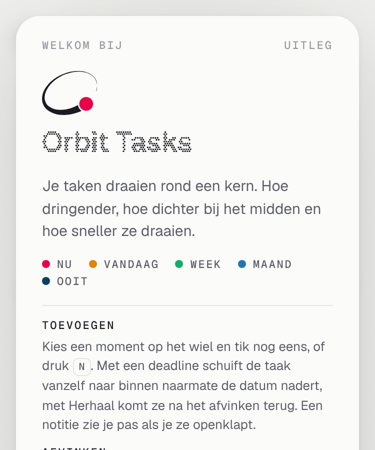
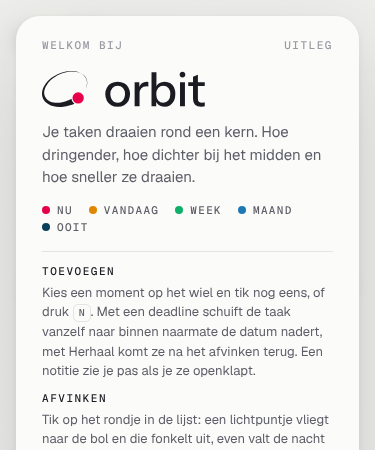
Uitleg toont het merk met woordmerk als titel, puntjestitel weggehaald
Claude-Session: https://claude.ai/code/session_01DKza2nncPbWGfFsHg8Vg2p

diff --git a/src/core/mark.js b/src/core/mark.js
@@ -1,6 +1,7 @@
 // Beeldmerk en woordmerk van Orbit (merk v1, 02/11/2026), uit brand/tools/export_app.py. Niet met de hand aanpassen.
-// SYMBOL: master (vanaf 48 px), SYMBOL_SMALL: kleine tekening (16 tot 47 px), LOCKUP_SMALL: kleine tekening met woordmerk.
-// oc: optisch midden (om het merk in een icoon te centreren). Elk: w, h (vak), tail (pad van de baan met staart), head [cx, cy, r] (de kop, in --core); LOCKUP_SMALL ook word (pad) en base (basislijn).
+// SYMBOL: master (vanaf 48 px), SYMBOL_SMALL: kleine tekening (16 tot 47 px), LOCKUP en LOCKUP_SMALL: master of kleine tekening met woordmerk.
+// oc: optisch midden (om het merk in een icoon te centreren). Elk: w, h (vak), tail (pad van de baan met staart), head [cx, cy, r] (de kop, in --core); LOCKUP en LOCKUP_SMALL ook word (pad) en base (basislijn).
 export const SYMBOL = {"w":125.67,"h":100,"tail":"M123.4 45.8 122.8 45.6C125 39.3 125.6 33.1 124.5 27.4C123.4 22 120.8 17.1 116.8 13C112.6 8.9 107 5.7 100.4 3.7C94 1.9 86.6 1.1 78.9 1.6C70.9 2.1 62.6 4 54.5 6.9C46.7 9.8 39.2 13.8 32.6 18.5C25.8 23.4 19.9 29.1 15.5 35.1C11.1 41.1 8.1 47.3 6.8 53.3C5.5 59 5.8 64.4 7.4 69C9.1 73.9 12.2 77.9 16.5 81.1C20.7 84.1 26 86.3 32.2 87.4C38.6 88.6 45.8 88.6 53.4 87.4C60.6 86.2 68.1 83.9 75.2 80.6C77.4 79.6 79.7 78.4 81.8 77.2C82.5 82.8 85.7 87.6 90.2 90.6C87.1 92 83.9 93.3 80.7 94.4C72.1 97.4 63.3 99.2 54.7 99.8C45.9 100.4 37.3 99.6 29.8 97.5C22.5 95.4 16.1 92 11.1 87.6C6 83 2.5 77.2 1 70.9C-0.5 64.9 -0.3 58.4 1.6 51.9C3.6 45.3 7.3 38.7 12.3 32.6C17.3 26.4 23.7 20.8 30.9 16C37.9 11.4 45.7 7.6 53.8 4.9C62.1 2 70.7 0.4 78.8 0.1C86.7 -0.3 94.2 0.6 100.7 2.7C107.4 4.8 113.1 8.1 117.3 12.5C121.4 16.6 124.1 21.7 125.1 27.3C126.3 33.1 125.6 39.5 123.4 45.8Z","head":[100.44,74.79,15.67],"oc":[62.65,59.97]};
 export const SYMBOL_SMALL = {"w":121.95,"h":100,"tail":"M113.3 46.2C114.6 41.1 114.5 36 113.2 31.5C111.9 27.1 109.4 23.2 105.9 19.9C102.3 16.4 97.4 13.7 91.8 11.9C86.3 10.2 80 9.4 73.5 9.6C66.8 9.8 59.7 11.1 52.9 13.5C46.4 15.7 40.2 18.9 34.8 22.7C29.2 26.6 24.4 31.3 20.9 36.2C17.4 41 15.1 46.1 14.2 50.9C13.3 55.5 13.6 59.8 14.8 63.6C16.1 67.5 18.5 71 21.9 73.9C25.2 76.7 29.4 78.9 34.5 80.4C39.7 81.9 45.8 82.6 52.1 82.2C58.3 81.8 64.7 80.5 70.8 78.3C77.1 76 83.1 72.8 88.2 69L99.9 85.8C92.7 90.4 84.9 94 76.7 96.4C68.8 98.8 60.6 100 52.6 100C44.4 100 36.4 98.7 29.3 96.1C22.4 93.6 16.2 89.9 11.4 85.1C6.4 80.2 2.8 74.1 1.1 67.5C-0.5 61.1 -0.3 54.4 1.4 47.9C3.1 41.1 6.5 34.7 11.2 28.8C15.9 22.9 21.8 17.7 28.5 13.4C35 9.2 42.3 5.8 49.8 3.6C57.5 1.2 65.6 -0 73.4 5.7e-05C80.9 0 88.1 1.2 94.6 3.4C101.3 5.8 107.2 9.4 111.7 13.9C116.1 18.3 119.2 23.6 120.8 29.4C122.4 35.3 122.3 41.7 120.7 48C120.4 49.7 118.8 51 117 51C114.9 51 113.2 49.3 113.2 47.2C113.2 46.9 113.2 46.5 113.3 46.2Z","head":[94.05,77.39,17.46],"oc":[60.2,53.43]};
+export const LOCKUP = {"w":344.25,"h":76.13,"tail":"M93.9 34.9 93.5 34.7C95.1 29.9 95.6 25.2 94.8 20.9C94 16.7 91.9 13 88.9 9.9C85.7 6.8 81.4 4.3 76.4 2.9C71.5 1.4 65.9 0.9 60.1 1.2C54 1.6 47.6 3 41.5 5.3C35.6 7.5 29.9 10.5 24.8 14.1C19.6 17.8 15.2 22.1 11.8 26.7C8.4 31.3 6.2 36 5.2 40.6C4.2 44.9 4.4 49 5.7 52.6C6.9 56.2 9.3 59.3 12.6 61.7C15.7 64 19.8 65.7 24.5 66.6C29.4 67.4 34.9 67.4 40.6 66.5C46.2 65.6 51.9 63.9 57.2 61.4C59 60.6 60.6 59.7 62.3 58.8C62.8 63 65.2 66.7 68.7 69C66.3 70 63.9 71 61.4 71.9C54.9 74.2 48.2 75.6 41.7 76C34.9 76.4 28.4 75.8 22.7 74.2C17.1 72.6 12.2 70.1 8.5 66.7C4.6 63.2 1.9 58.8 0.7 54C-0.4 49.4 -0.2 44.4 1.2 39.5C2.7 34.5 5.5 29.5 9.3 24.8C13.2 20.1 18 15.8 23.5 12.2C28.9 8.7 34.8 5.8 40.9 3.7C47.3 1.6 53.8 0.3 60 0C66 -0.2 71.7 0.5 76.6 2C81.8 3.6 86.1 6.2 89.3 9.5C92.4 12.7 94.5 16.5 95.3 20.8C96.1 25.2 95.6 30 93.9 34.9Z","head":[76.47,56.94,11.93],"word":"M160 75.6Q152.2 75.6 146.3 72.2Q140.4 68.7 137.1 62.7Q133.8 56.6 133.8 48.9Q133.8 41.1 137.2 35.2Q140.5 29.3 146.4 26Q152.2 22.6 160 22.6Q167.9 22.6 173.8 26Q179.7 29.3 183 35.2Q186.2 41.1 186.2 48.9Q186.2 56.6 183 62.7Q179.7 68.7 173.8 72.2Q167.9 75.6 160 75.6ZM160 67.1Q164.7 67.1 168.2 64.8Q171.6 62.5 173.6 58.4Q175.6 54.3 175.6 48.8Q175.6 40.6 171.3 35.9Q166.9 31.1 160 31.1Q153.2 31.1 148.9 35.9Q144.5 40.7 144.5 48.8Q144.5 54.3 146.5 58.4Q148.4 62.5 152 64.8Q155.5 67.1 160 67.1ZM195.9 74.6V23.6H205.8V36.3H206.3V74.6H195.9ZM206.3 48 205 35.9Q206.8 29.4 211.2 26Q215.6 22.6 221.7 22.6Q224 22.6 224.9 23V32.8Q224.4 32.6 223.5 32.6Q222.6 32.5 221.3 32.5Q213.8 32.5 210.1 36.4Q206.3 40.3 206.3 48ZM258.8 75.5Q251.6 75.5 246.8 72.1Q242 68.6 240.5 62.4L241.5 62.2V74.6H231.6V2.6H242V35.3L240.9 35Q242.6 29.2 247.6 25.9Q252.5 22.6 259.5 22.6Q266.4 22.6 271.5 25.9Q276.5 29.2 279.3 35.1Q282 41 282 48.9Q282 56.9 279.1 62.9Q276.2 68.9 271 72.2Q265.8 75.5 258.8 75.5ZM256.6 66.9Q263.4 66.9 267.4 62.1Q271.4 57.3 271.4 48.9Q271.4 40.6 267.4 36Q263.4 31.3 256.5 31.3Q249.7 31.3 245.7 36.1Q241.6 40.8 241.6 49.2Q241.6 57.4 245.7 62.2Q249.7 66.9 256.6 66.9ZM291.9 74.6V23.6H302.3V74.6H291.9ZM336.6 75.6Q327.7 75.6 323.6 71.5Q319.4 67.3 319.4 59.2V11.9L329.7 8V59.3Q329.7 63.3 331.8 65.2Q333.9 67.1 338.6 67.1Q340.4 67.1 341.8 66.8Q343.2 66.5 344.2 66.1V74.5Q343.1 75 341.1 75.3Q339.1 75.6 336.6 75.6ZM309.2 31.9V23.6H344.2V31.9H309.2ZM303.1 7.8C303.1 11.1 300.5 13.8 297.1 13.8C293.8 13.8 291.1 11.1 291.1 7.8C291.1 4.5 293.8 1.8 297.1 1.8C300.5 1.8 303.1 4.5 303.1 7.8Z","base":74.63};
 export const LOCKUP_SMALL = {"w":345.78,"h":76.13,"tail":"M86.3 35.2C87.2 31.3 87.2 27.4 86.2 24C85.2 20.7 83.3 17.7 80.6 15.1C77.8 12.5 74.2 10.4 69.9 9.1C65.7 7.7 60.9 7.1 56 7.3C50.8 7.5 45.4 8.5 40.3 10.2C35.3 11.9 30.6 14.4 26.5 17.3C22.2 20.3 18.6 23.8 15.9 27.5C13.2 31.2 11.5 35.1 10.8 38.8C10.1 42.3 10.3 45.5 11.3 48.4C12.3 51.4 14.1 54 16.7 56.2C19.2 58.4 22.4 60.1 26.3 61.2C30.2 62.4 34.9 62.9 39.7 62.6C44.4 62.3 49.2 61.3 53.9 59.6C58.7 57.9 63.3 55.4 67.2 52.5L76 65.3C70.6 68.8 64.6 71.6 58.4 73.4C52.3 75.2 46.1 76.1 40.1 76.1C33.8 76.1 27.7 75.2 22.3 73.2C17 71.3 12.3 68.4 8.7 64.8C4.9 61 2.1 56.4 0.9 51.4C-0.4 46.5 -0.3 41.4 1 36.5C2.4 31.3 5 26.4 8.5 21.9C12.1 17.5 16.6 13.5 21.7 10.2C26.7 7 32.2 4.4 37.9 2.7C43.8 0.9 49.9 -0 55.9 4.3e-05C61.6 0 67.1 0.9 72 2.6C77.1 4.4 81.6 7.1 85.1 10.6C88.4 13.9 90.8 18 92 22.4C93.2 26.9 93.1 31.8 91.9 36.6C91.6 37.9 90.5 38.8 89.1 38.8C87.5 38.8 86.2 37.5 86.2 35.9C86.2 35.7 86.2 35.4 86.3 35.2Z","head":[71.6,58.92,13.29],"word":"M161.6 75.6Q153.8 75.6 147.9 72.2Q142 68.7 138.7 62.7Q135.4 56.6 135.4 48.9Q135.4 41.1 138.7 35.2Q142.1 29.3 147.9 26Q153.8 22.6 161.6 22.6Q169.5 22.6 175.4 26Q181.3 29.3 184.5 35.2Q187.8 41.1 187.8 48.9Q187.8 56.6 184.5 62.7Q181.3 68.7 175.4 72.2Q169.5 75.6 161.6 75.6ZM161.6 67.1Q166.3 67.1 169.7 64.8Q173.2 62.5 175.2 58.4Q177.2 54.3 177.2 48.8Q177.2 40.6 172.8 35.9Q168.5 31.1 161.6 31.1Q154.8 31.1 150.4 35.9Q146.1 40.7 146.1 48.8Q146.1 54.3 148 58.4Q150 62.5 153.5 64.8Q157.1 67.1 161.6 67.1ZM197.5 74.6V23.6H207.4V36.3H207.9V74.6H197.5ZM207.9 48 206.6 35.9Q208.4 29.4 212.8 26Q217.2 22.6 223.3 22.6Q225.6 22.6 226.5 23V32.8Q226 32.6 225.1 32.6Q224.2 32.5 222.9 32.5Q215.4 32.5 211.6 36.4Q207.9 40.3 207.9 48ZM260.4 75.5Q253.2 75.5 248.4 72.1Q243.6 68.6 242.1 62.4L243.1 62.2V74.6H233.2V2.6H243.6V35.3L242.5 35Q244.2 29.2 249.1 25.9Q254.1 22.6 261.1 22.6Q268 22.6 273 25.9Q278.1 29.2 280.8 35.1Q283.6 41 283.6 48.9Q283.6 56.9 280.7 62.9Q277.8 68.9 272.6 72.2Q267.4 75.5 260.4 75.5ZM258.2 66.9Q265 66.9 269 62.1Q273 57.3 273 48.9Q273 40.6 269 36Q265 31.3 258.1 31.3Q251.3 31.3 247.2 36.1Q243.2 40.8 243.2 49.2Q243.2 57.4 247.2 62.2Q251.3 66.9 258.2 66.9ZM293.5 74.6V23.6H303.9V74.6H293.5ZM338.2 75.6Q329.3 75.6 325.1 71.5Q321 67.3 321 59.2V11.9L331.3 8V59.3Q331.3 63.3 333.4 65.2Q335.5 67.1 340.2 67.1Q342 67.1 343.4 66.8Q344.8 66.5 345.8 66.1V74.5Q344.7 75 342.7 75.3Q340.7 75.6 338.2 75.6ZM310.8 31.9V23.6H345.8V31.9H310.8ZM304.7 7.8C304.7 11.1 302 13.8 298.7 13.8C295.4 13.8 292.7 11.1 292.7 7.8C292.7 4.5 295.4 1.8 298.7 1.8C302 1.8 304.7 4.5 304.7 7.8Z","base":74.63};

diff --git a/src/scene/fx.js b/src/scene/fx.js
@@ -1,9 +1,8 @@
 /* ---- Effecten buiten de scène (naar React Bits Pro, eigen versie zonder React) ---- */
-// Zachte intro vanuit de kern, particle text (titel in de Uitleg) en typographic wall (lege lijst).
+// Zachte intro vanuit de kern, witte gloed (maandwissel), nacht en typographic wall (lege lijst).
 // Zelfde taal als de scène: Geist Mono, inkt met lage dekking, rood alleen als accent.
 // Glyph sonar, vortex en mosaic wave zitten in scene.js.
 
-const TAU = Math.PI * 2;
 const css = name => getComputedStyle(document.documentElement).getPropertyValue(name).trim();
 const smoothstep = (a, b, x) => { const t = Math.min(1, Math.max(0, (x - a) / (b - a))); return t * t * (3 - 2 * t); };
 
@@ -243,101 +242,6 @@ export function nightFall({ star, stars = [], onOpen = () => {}, done = () => {}
   return { skip };
 }
 
-
-/* ---- Particle text: de titel in de Uitleg ---- */
-// De letters bestaan uit puntjes in een zeshoekig raster (zoals de kern). Bij het openen spiralen ze binnen zoals de
-// bollen bij de intro; de aanwijzer duwt ze opzij en kleurt ze even rood.
-const ARRIVE = 1.1;   // s, binnenkomen van de puntjes
-export function particleTitle(h, { reducedMotion }) {
-  const cv = document.createElement('canvas');
-  cv.className = 'fx-title';
-  cv.setAttribute('aria-hidden', 'true');
-  h.classList.add('has-fx');
-  h.append(cv);
-  let pts = [], g = null, W = 0, H = 0, raf = 0, running = false, pointer = null, t0 = 0;
-
-  function build() {
-    const r = h.getBoundingClientRect();
-    if (!r.width) return false;
-    const padX = 12, padY = 14;
-    W = Math.floor(r.width + padX * 2); H = Math.floor(r.height + padY * 2);
-    g = fitCanvas(cv, W, H);
-    cv.style.left = `${-padX}px`; cv.style.top = `${-padY}px`;
-    const off = document.createElement('canvas'); off.width = W; off.height = H;
-    const o = off.getContext('2d');
-    const st = getComputedStyle(h);
-    o.font = `${st.fontWeight} ${st.fontSize} ${st.fontFamily}`;
-    o.textBaseline = 'middle';
-    o.fillText(h.textContent.trim(), padX, H / 2);
-    const data = o.getImageData(0, 0, W, H).data, sp = W < 300 ? 1.9 : 2.2, out = [];
-    for (let y = 0, row = 0; y < H; y += sp * 0.866, row++) {
-      for (let x = (row % 2) * sp / 2; x < W; x += sp) {
-        if (data[(Math.round(y) * W + Math.round(x)) * 4 + 3] > 120) {
-          const a = Math.random() * TAU, d = 60 + Math.random() * W * 0.5;
-          out.push({ hx: x, hy: y, sx: W / 2 + Math.cos(a) * d - x, sy: H / 2 + Math.sin(a) * d * 0.35 - y, x, y, vx: 0, vy: 0, heat: 0, delay: Math.random() * 0.3 });
-        }
-      }
-    }
-    pts = out;
-    return true;
-  }
-
-  function draw(now) {
-    if (!running) return;
-    const t = (now - t0) / 1000, still = reducedMotion.matches;
-    g.clearRect(0, 0, W, H);
-    const ink = css('--ink'), red = css('--core');
-    const hot = [];
-    g.fillStyle = ink;
-    g.beginPath();
-    for (const p of pts) {
-      const arrive = Math.min(1, Math.max(0, (t - p.delay) / ARRIVE));
-      if (still) { p.x = p.hx; p.y = p.hy; }
-      else if (arrive < 1) {
-        // binnenkomen op tijd (niet op beelden): een draai naar binnen, zoals de bollen bij de intro
-        const e = 1 - Math.pow(1 - arrive, 3), k = 1 - e, a = k * 1.6;
-        p.x = p.hx + (p.sx * Math.cos(a) - p.sy * Math.sin(a)) * k;
-        p.y = p.hy + (p.sx * Math.sin(a) + p.sy * Math.cos(a)) * k;
-      } else {
-        let ax = (p.hx - p.x) * 0.09, ay = (p.hy - p.y) * 0.09;
-        if (pointer) {
-          const dx = p.x - pointer.x, dy = p.y - pointer.y, d = Math.hypot(dx, dy);
-          if (d < 34) { const f = (34 - d) / 34 * 2.6; ax += dx / (d || 1) * f; ay += dy / (d || 1) * f; p.heat = 1; }
-        }
-        p.vx = (p.vx + ax) * 0.78; p.vy = (p.vy + ay) * 0.78;
-        p.x += p.vx; p.y += p.vy;
-        p.heat *= 0.94;
-      }
-      if (p.heat > 0.08) { hot.push(p); continue; }
-      g.moveTo(p.x + 0.85, p.y); g.arc(p.x, p.y, 0.85, 0, TAU);
-    }
-    g.fill();
-    for (const p of hot) {
-      g.fillStyle = red; g.globalAlpha = 0.35 + 0.65 * p.heat;
-      g.beginPath(); g.arc(p.x, p.y, 0.95, 0, TAU); g.fill();
-    }
-    g.globalAlpha = 1;
-    raf = requestAnimationFrame(draw);
-  }
-
-  const local = e => { const r = cv.getBoundingClientRect(); return { x: e.clientX - r.left, y: e.clientY - r.top }; };
-  cv.addEventListener('pointermove', e => { pointer = local(e); });
-  cv.addEventListener('pointerdown', e => { pointer = local(e); });
-  cv.addEventListener('pointerleave', () => { pointer = null; });
-
-  let enabled = true;
-  return {
-    // uit (Minimaal): gewone tekst in de titel, geen puntjes
-    setEnabled(on) { enabled = on; h.classList.toggle('has-fx', on); cv.hidden = !on; if (!on) this.stop(); },
-    start() {
-      if (running || !enabled) return;
-      if (!build()) return;
-      running = true; t0 = performance.now();
-      raf = requestAnimationFrame(draw);
-    },
-    stop() { running = false; cancelAnimationFrame(raf); pointer = null; },
-  };
-}
 
 /* ---- Typographic wall: de lege lijst ---- */
 // Als alles afgevinkt is: een muur van wat je onlangs afvinkte, in kapitaaltjes, bijna onzichtbaar. Waar je aanwijst

diff --git a/index.html b/index.html
@@ -286,8 +286,7 @@
 <dialog class="sync intro" id="intro" aria-labelledby="intro-title">
   <div class="sync-card intro-card" tabindex="-1" autofocus>
     <div class="composer-meta"><span data-i="intro.kicker">Welkom bij</span><span data-i="intro.kicker2">Uitleg</span></div>
-    <svg class="intro-mark" viewBox="0 0 125.67 100" aria-hidden="true"><path class="bm-ink" d="M123.4 45.8 122.8 45.6C125 39.3 125.6 33.1 124.5 27.4C123.4 22 120.8 17.1 116.8 13C112.6 8.9 107 5.7 100.4 3.7C94 1.9 86.6 1.1 78.9 1.6C70.9 2.1 62.6 4 54.5 6.9C46.7 9.8 39.2 13.8 32.6 18.5C25.8 23.4 19.9 29.1 15.5 35.1C11.1 41.1 8.1 47.3 6.8 53.3C5.5 59 5.8 64.4 7.4 69C9.1 73.9 12.2 77.9 16.5 81.1C20.7 84.1 26 86.3 32.2 87.4C38.6 88.6 45.8 88.6 53.4 87.4C60.6 86.2 68.1 83.9 75.2 80.6C77.4 79.6 79.7 78.4 81.8 77.2C82.5 82.8 85.7 87.6 90.2 90.6C87.1 92 83.9 93.3 80.7 94.4C72.1 97.4 63.3 99.2 54.7 99.8C45.9 100.4 37.3 99.6 29.8 97.5C22.5 95.4 16.1 92 11.1 87.6C6 83 2.5 77.2 1 70.9C-0.5 64.9 -0.3 58.4 1.6 51.9C3.6 45.3 7.3 38.7 12.3 32.6C17.3 26.4 23.7 20.8 30.9 16C37.9 11.4 45.7 7.6 53.8 4.9C62.1 2 70.7 0.4 78.8 0.1C86.7 -0.3 94.2 0.6 100.7 2.7C107.4 4.8 113.1 8.1 117.3 12.5C121.4 16.6 124.1 21.7 125.1 27.3C126.3 33.1 125.6 39.5 123.4 45.8Z"/><circle class="bm-head" cx="100.44" cy="74.79" r="15.67"/></svg>
-    <h2 class="intro-title" id="intro-title">Orbit Tasks</h2>
+    <h2 class="intro-title" id="intro-title"><!-- merk v1, uit src/core/mark.js (LOCKUP) --><svg class="intro-lockup" viewBox="0 0 344.25 76.13" role="img" aria-label="Orbit Tasks"><path class="bm-ink" d="M93.9 34.9 93.5 34.7C95.1 29.9 95.6 25.2 94.8 20.9C94 16.7 91.9 13 88.9 9.9C85.7 6.8 81.4 4.3 76.4 2.9C71.5 1.4 65.9 0.9 60.1 1.2C54 1.6 47.6 3 41.5 5.3C35.6 7.5 29.9 10.5 24.8 14.1C19.6 17.8 15.2 22.1 11.8 26.7C8.4 31.3 6.2 36 5.2 40.6C4.2 44.9 4.4 49 5.7 52.6C6.9 56.2 9.3 59.3 12.6 61.7C15.7 64 19.8 65.7 24.5 66.6C29.4 67.4 34.9 67.4 40.6 66.5C46.2 65.6 51.9 63.9 57.2 61.4C59 60.6 60.6 59.7 62.3 58.8C62.8 63 65.2 66.7 68.7 69C66.3 70 63.9 71 61.4 71.9C54.9 74.2 48.2 75.6 41.7 76C34.9 76.4 28.4 75.8 22.7 74.2C17.1 72.6 12.2 70.1 8.5 66.7C4.6 63.2 1.9 58.8 0.7 54C-0.4 49.4 -0.2 44.4 1.2 39.5C2.7 34.5 5.5 29.5 9.3 24.8C13.2 20.1 18 15.8 23.5 12.2C28.9 8.7 34.8 5.8 40.9 3.7C47.3 1.6 53.8 0.3 60 0C66 -0.2 71.7 0.5 76.6 2C81.8 3.6 86.1 6.2 89.3 9.5C92.4 12.7 94.5 16.5 95.3 20.8C96.1 25.2 95.6 30 93.9 34.9Z"/><circle class="bm-head" cx="76.47" cy="56.94" r="11.93"/><path class="bm-ink" d="M160 75.6Q152.2 75.6 146.3 72.2Q140.4 68.7 137.1 62.7Q133.8 56.6 133.8 48.9Q133.8 41.1 137.2 35.2Q140.5 29.3 146.4 26Q152.2 22.6 160 22.6Q167.9 22.6 173.8 26Q179.7 29.3 183 35.2Q186.2 41.1 186.2 48.9Q186.2 56.6 183 62.7Q179.7 68.7 173.8 72.2Q167.9 75.6 160 75.6ZM160 67.1Q164.7 67.1 168.2 64.8Q171.6 62.5 173.6 58.4Q175.6 54.3 175.6 48.8Q175.6 40.6 171.3 35.9Q166.9 31.1 160 31.1Q153.2 31.1 148.9 35.9Q144.5 40.7 144.5 48.8Q144.5 54.3 146.5 58.4Q148.4 62.5 152 64.8Q155.5 67.1 160 67.1ZM195.9 74.6V23.6H205.8V36.3H206.3V74.6H195.9ZM206.3 48 205 35.9Q206.8 29.4 211.2 26Q215.6 22.6 221.7 22.6Q224 22.6 224.9 23V32.8Q224.4 32.6 223.5 32.6Q222.6 32.5 221.3 32.5Q213.8 32.5 210.1 36.4Q206.3 40.3 206.3 48ZM258.8 75.5Q251.6 75.5 246.8 72.1Q242 68.6 240.5 62.4L241.5 62.2V74.6H231.6V2.6H242V35.3L240.9 35Q242.6 29.2 247.6 25.9Q252.5 22.6 259.5 22.6Q266.4 22.6 271.5 25.9Q276.5 29.2 279.3 35.1Q282 41 282 48.9Q282 56.9 279.1 62.9Q276.2 68.9 271 72.2Q265.8 75.5 258.8 75.5ZM256.6 66.9Q263.4 66.9 267.4 62.1Q271.4 57.3 271.4 48.9Q271.4 40.6 267.4 36Q263.4 31.3 256.5 31.3Q249.7 31.3 245.7 36.1Q241.6 40.8 241.6 49.2Q241.6 57.4 245.7 62.2Q249.7 66.9 256.6 66.9ZM291.9 74.6V23.6H302.3V74.6H291.9ZM336.6 75.6Q327.7 75.6 323.6 71.5Q319.4 67.3 319.4 59.2V11.9L329.7 8V59.3Q329.7 63.3 331.8 65.2Q333.9 67.1 338.6 67.1Q340.4 67.1 341.8 66.8Q343.2 66.5 344.2 66.1V74.5Q343.1 75 341.1 75.3Q339.1 75.6 336.6 75.6ZM309.2 31.9V23.6H344.2V31.9H309.2ZM303.1 7.8C303.1 11.1 300.5 13.8 297.1 13.8C293.8 13.8 291.1 11.1 291.1 7.8C291.1 4.5 293.8 1.8 297.1 1.8C300.5 1.8 303.1 4.5 303.1 7.8Z"/></svg></h2>
     <p class="intro-lead" data-i="intro.lead">Je taken draaien rond een kern. Hoe dringender, hoe dichter bij het midden en hoe sneller ze draaien.</p>
     <ul class="intro-levels" id="intro-levels" aria-label="De vijf momenten, van binnen naar buiten" data-ia="aria-label:intro.levels"></ul>
     <dl class="intro-grid">

diff --git a/src/styles.css b/src/styles.css
@@ -887,8 +887,9 @@ body.is-idle .controls { opacity: 0; }
 .intro { width: min(680px, calc(100vw - 32px)); }
 .intro-card:focus, .recap-card:focus { outline: none; }
 .intro-card { max-height: min(820px, calc(100dvh - 32px)); overflow-y: auto; gap: 14px; }
-.intro-mark { display: block; flex: none; align-self: flex-start; height: 44px; width: auto; margin: 6px 0 -2px; }
-.intro-title { margin: 2px 0 0; font: 600 24px/1.15 var(--font); letter-spacing: -.01em; }
+.intro-title { margin: 6px 0 0; line-height: 0; }
+/* merk v1 met woordmerk (Victor, 02/11/2026: "zet het logo naast het woord, het woord in de brand style, het effect mag weg") */
+.intro-lockup { display: block; height: 40px; width: auto; }
 .intro-lead { margin: 0; font-size: 15px; line-height: 1.5; color: var(--ink-2); max-width: 46ch; }
 .intro-levels { list-style: none; margin: 2px 0 0; padding: 0; display: flex; flex-wrap: wrap; gap: 6px 16px; }
 .intro-levels li { display: flex; align-items: center; gap: 7px; font: 500 11px/1 var(--mono); letter-spacing: .12em; text-transform: uppercase; color: var(--ink-2); }
@@ -912,7 +913,7 @@ body.is-idle .controls { opacity: 0; }
 .intro[open] .intro-card { animation: pop-in .4s var(--pop); }
 @media (max-width: 540px) {
   .intro-grid { grid-template-columns: 1fr; gap: 12px; }
-  .intro-title { font-size: 21px; }
+  .intro-lockup { height: 36px; }
   .intro-note { display: none; }
   .intro-foot { justify-content: flex-end; }
 }
@@ -1061,15 +1062,10 @@ html.is-veiled::after { content: ''; position: fixed; inset: 0; z-index: 61; bac
 @keyframes veil-safety { to { opacity: 0; visibility: hidden; } }
 /* Minimaal (Instellingen → Effecten): wat in de DOM zit gaat ook weg */
 body.is-minimal .warmth, body.is-minimal .fidget, body.is-minimal .wall-toggle { display: none !important; }
-/* Particle text: titel in de Uitleg uit puntjes; de echte tekst blijft voor schermlezers */
-.intro-title.has-fx { position: relative; font-size: 34px; color: transparent; }
-.fx-title { position: absolute; cursor: crosshair; touch-action: none; }
 /* Typographic wall: lege lijst na het afvinken */
 .fx-wall { position: relative; height: 230px; margin-top: 14px; -webkit-mask-image: radial-gradient(closest-side, #000 62%, transparent); mask-image: radial-gradient(closest-side, #000 62%, transparent); }
 .fx-wall canvas { position: absolute; inset: 0; width: 100%; height: 100%; }
 .fx-wall-msg { position: absolute; left: 50%; top: 50%; transform: translate(-50%, -50%); margin: 0; padding: 6px 14px; border-radius: 999px; background: var(--bg); color: var(--ink); font-size: 14px; white-space: nowrap; pointer-events: none; }
-@media (max-width: 999px) { .intro-title.has-fx { font-size: 28px; } }
-
 /* ---- Prestaties ---- */
 .feats-badge { display: inline-flex; align-items: center; gap: 6px; flex-basis: 100%; margin-top: 13px; font: 500 10px/1 var(--mono); letter-spacing: .12em; text-transform: uppercase; color: var(--ink-3); cursor: pointer; transition: color .2s var(--ease); --tier: var(--tier-gold); }
 .feats-badge:hover { color: var(--ink); }

diff --git a/src/app.js b/src/app.js
@@ -19,7 +19,7 @@ import { playDone, soundOn, setSound } from './scene/sound.js';
 import { createFidget } from './focus/fidget.js';
 import { createTimer } from './focus/timer.js';
 import { FEATS, FEATS_KEY, GROUPS, groupName, loadFeats, saveFeats, mergeFeats, recordDone, recordEvent, recordFocus, backfill, evaluate, revoke } from './data/feats.js';
-import { softReveal, whiteBurst, nightFall, particleTitle, createWall } from './scene/fx.js';
+import { softReveal, whiteBurst, nightFall, createWall } from './scene/fx.js';
 import { loadRecap, saveRecap, monthKey, monthStart, monthStats, drawPoster, posterBlob, posterName } from './data/recap.js';
 
 applyStatic();
@@ -1557,7 +1557,7 @@ renderSound();
 
 /* ---- Effecten: Alle of Minimaal ---- */
 // Minimaal zet alle extra effecten uit (intro, gloed, raster dat buigt en klopt, schokgolf, vallende ster,
-// sterrenbeeld, spoor op de baan, lichtpuntje, vortex, sonar, muur, avondtint, bakje water, puntjestitel, fonkelende klok).
+// sterrenbeeld, spoor op de baan, lichtpuntje, vortex, sonar, muur, avondtint, bakje water, fonkelende klok).
 // Wat blijft: de scène zelf (ringen, kometen, kern met gezicht, sterren) en het uitfonkelen bij afvinken.
 const FX_KEY = 'priority-orbit.fx.v1';
 let minimalFx = false;
@@ -1566,7 +1566,6 @@ const fxButtons = [...document.querySelectorAll('[data-fx]')];
 function applyFx() {
   document.body.classList.toggle('is-minimal', minimalFx);
   scene.setMinimal(minimalFx);
-  introTitle.setEnabled(!minimalFx);
   for (const b of fxButtons) b.setAttribute('aria-checked', String((b.dataset.fx === 'min') === minimalFx));
   if (minimalFx) fidget.stop();
   else if (document.body.classList.contains('is-focus') && desktop.matches) fidget.start();
@@ -2590,16 +2589,13 @@ if (matchMedia('(hover: none)').matches) setInput('pointer');
 const introDialog = $('intro');
 const INTRO_KEY = 'priority-orbit.intro.v1';
 for (const lv of LEVELS) { const li = el('li', '', lv.name); toneNode(li, lv); $('intro-levels').append(li); }
-const introTitle = particleTitle($('intro-title'), { reducedMotion });
 function openIntro() {
   if (!introDialog.open) introDialog.showModal();
-  requestAnimationFrame(() => introTitle.start());
   const card = introDialog.querySelector('.intro-card');
   card.scrollTop = 0;
   card.focus({ preventScroll: true });     // bovenaan beginnen, geen kader rond de knop
 }
 function closeIntro() { try { localStorage.setItem(INTRO_KEY, 'gezien'); } catch { /* geen opslag */ } introDialog.close(); }
-introDialog.addEventListener('close', () => introTitle.stop());
 $('intro-btn').addEventListener('click', openIntro);
 $('intro-close').addEventListener('click', closeIntro);
 introDialog.addEventListener('click', e => { if (e.target === introDialog) closeIntro(); });

diff --git a/brand/merkgids/index.html b/brand/merkgids/index.html
@@ -163,7 +163,7 @@ code{font:400 13px var(--mono);background:var(--surface);padding:1px 5px;border-
   <div class="grid3">
     <figure><img class="shot" src="../merk/toepassing-recap-donker.png" alt="Maandrecap donker met het merk klein linksboven" width="540" height="675"><figcaption>Maandrecap: het merk klein linksboven, basislijn gelijk met de maand.</figcaption></figure>
     <figure><img class="shot" src="../merk/toepassing-recap-licht.png" alt="Maandrecap licht met het merk klein linksboven" width="540" height="675"><figcaption>Ook in licht, post en story.</figcaption></figure>
-    <figure><img class="shot" src="../merk/toepassing-uitleg.png" alt="Het venster Uitleg met het beeldmerk boven de titel" width="375" height="450"><figcaption>Uitleg: het beeldmerk boven de titel.</figcaption></figure>
+    <figure><img class="shot" src="../merk/toepassing-uitleg.png" alt="Het venster Uitleg met het merk en het woordmerk als titel" width="375" height="450"><figcaption>Uitleg: het merk naast het woord, als titel.</figcaption></figure>
   </div>
 </section>
 

diff --git a/brand/tools/export_app.py b/brand/tools/export_app.py
@@ -36,10 +36,10 @@ def lockup(p, size=100):
     W=gx+w-(33+26)*size/1000
     return dict(w=round(W,2), h=round(max(h,base+0.012*size),2), tail=xf(tail_d(p),s,0,0,s,-bx*s,-by*s),
                 head=[round((hx-bx)*s,2),round((hy-by)*s,2),round(hr*s,2)], word=word, base=round(base,2))
-data=dict(SYMBOL=symbol(MASTER), SYMBOL_SMALL=symbol(SMALL), LOCKUP_SMALL=lockup(SMALL))
+data=dict(SYMBOL=symbol(MASTER), SYMBOL_SMALL=symbol(SMALL), LOCKUP=lockup(MASTER), LOCKUP_SMALL=lockup(SMALL))
 js='''// Beeldmerk en woordmerk van Orbit (merk v1, 02/11/2026), uit brand/tools/export_app.py. Niet met de hand aanpassen.
-// SYMBOL: master (vanaf 48 px), SYMBOL_SMALL: kleine tekening (16 tot 47 px), LOCKUP_SMALL: kleine tekening met woordmerk.
-// oc: optisch midden (om het merk in een icoon te centreren). Elk: w, h (vak), tail (pad van de baan met staart), head [cx, cy, r] (de kop, in --core); LOCKUP_SMALL ook word (pad) en base (basislijn).
+// SYMBOL: master (vanaf 48 px), SYMBOL_SMALL: kleine tekening (16 tot 47 px), LOCKUP en LOCKUP_SMALL: master of kleine tekening met woordmerk.
+// oc: optisch midden (om het merk in een icoon te centreren). Elk: w, h (vak), tail (pad van de baan met staart), head [cx, cy, r] (de kop, in --core); LOCKUP en LOCKUP_SMALL ook word (pad) en base (basislijn).
 '''
 for k,v in data.items(): js+=f'export const {k} = {json.dumps(v, separators=(",",":"))};\n'
 open(sys.argv[1] if len(sys.argv)>1 else 'mark.js','w').write(js)
@@ -52,4 +52,9 @@ S=data['SYMBOL']
 sym=(f'<svg class="intro-mark" viewBox="0 0 {S["w"]} {S["h"]}" aria-hidden="true">'
      f'<path class="bm-ink" d="{S["tail"]}"/><circle class="bm-head" cx="{S["head"][0]}" cy="{S["head"][1]}" r="{S["head"][2]}"/></svg>')
 open('intro_symbol.svg','w').write(sym)
+LM=data['LOCKUP']
+il=(f'<svg class="intro-lockup" viewBox="0 0 {LM["w"]} {LM["h"]}" role="img" aria-label="Orbit Tasks">'
+    f'<path class="bm-ink" d="{LM["tail"]}"/><circle class="bm-head" cx="{LM["head"][0]}" cy="{LM["head"][1]}" r="{LM["head"][2]}"/>'
+    f'<path class="bm-ink" d="{LM["word"]}"/></svg>')
+open('intro_lockup.svg','w').write(il)
 print({k:(v['w'],v['h']) for k,v in data.items()}, len(svg), len(sym))

diff --git a/CLAUDE.md b/CLAUDE.md
@@ -16,7 +16,7 @@ Wat Orbit is, afgeleid uit alle keuzes van Victor. Twijfel je over een nieuw ide
 
 **Beeldtaal**
 - Poster en risodruk: papier met korrel, inkt, kleur alleen in de bollen. Ringen, raster en lijnen zijn grafiet met lage dekking.
-- Rasterpunten in een zeshoekig raster als terugkerend motief: kern, zandloper, puntjestitel, matrixklok. Grootte van een punt = hoeveelheid.
+- Rasterpunten in een zeshoekig raster als terugkerend motief: kern, zandloper, matrixklok (de puntjestitel in de Uitleg is weg sinds 02/11/2026). Grootte van een punt = hoeveelheid.
 - De vierpuntige ster met holle zijden (`star4`) is het teken van iets afronden: afvinken, fonkelende teller en klok, zandloper klaar.
 - Rood (Nu, de kern) alleen als accent. Tekenset `·:+×#` voor alles in tekens. Geist voor tekst, Geist Mono in kapitaaltjes met letterafstand voor labels en tellers.
 - Geen glans, geen dikke 3D, geen zware schaduwen of `filter: blur` (traag op gsm, lijnen op iOS). Zachte gloed mag, heel licht.
@@ -154,7 +154,7 @@ Op vraag van Victor (02/11/2026): een volledig identiteitstraject voor Orbit (fa
 
 | Bestand | Inhoud |
 |---|---|
-| `src/core/mark.js` | Merk v1: padgegevens van beeldmerk (`SYMBOL`, master), kleine tekening (`SYMBOL_SMALL`) en kop met woordmerk (`LOCKUP_SMALL`), met kop, optisch midden en basislijn. Gegenereerd door `brand/tools/export_app.py`, niet met de hand aanpassen. Gebruikt door `icons/make_icons.py` en de maandrecap; de kop en de Uitleg hebben dezelfde vormen inline in `index.html` |
+| `src/core/mark.js` | Merk v1: padgegevens van beeldmerk (`SYMBOL`, master), kleine tekening (`SYMBOL_SMALL`), kop met woordmerk (`LOCKUP_SMALL`) en de grote horizontale lockup (`LOCKUP`, Uitleg), met kop, optisch midden en basislijn. Gegenereerd door `brand/tools/export_app.py`, niet met de hand aanpassen. Gebruikt door `icons/make_icons.py` en de maandrecap; de kop en de Uitleg hebben dezelfde vormen inline in `index.html` |
 | `src/core/config.js` | `LEVELS` (enige bron van waarheid: naam, ring, baan, omloop, kleur, grootte, staart), diepteprofiel, kleurhelpers, iconen voor het wiel |
 | `src/scene/scene.js` | Canvas-renderer met eigen 3D-projectie, animatie, hit-testing, slepen, bollen en kern |
 | `src/scene/wheel.js` | Het gebogen wiel (DOM, posities via JS) |
@@ -169,7 +169,7 @@ Op vraag van Victor (02/11/2026): een volledig identiteitstraject voor Orbit (fa
 | `src/core/i18n.js` | Taal: woordenboeken NL en EN, `tx(key, vars)`, `LANG`, `LOCALE`, `setLang`, `applyStatic`, `reasonText`, `DEMO_TITLES` |
 | `src/scene/greet.js` | Begroeting van de kern: `greeting(ctx)` en `coreLine(ctx)` (tik op de kern), zinnen in NL en EN |
 | `src/core/demo.js` | Demoversie: `DEMO_MODE` en een volledige voorbeeldlijst in de tijdelijke opslag; als eerste geïmporteerd in `app.js` |
-| `src/scene/fx.js` | Effecten buiten de scène (naar React Bits Pro, eigen versie zonder React): `softReveal`, `whiteBurst` (maandwissel), `nightFall`, `particleTitle`, `createWall`. Zie Effecten |
+| `src/scene/fx.js` | Effecten buiten de scène (naar React Bits Pro, eigen versie zonder React): `softReveal`, `whiteBurst` (maandwissel), `nightFall`, `createWall`. Zie Effecten |
 | `src/focus/fidget.js` | Bakje in de focusmodus met vijf digitale fidgets: water en gelei in mono-tekens (2D-canvas), lava (metaballs) en gloed (grainient) in WebGL, topo (Topography, `src/vendor/topography.js`). `createFidget(box, {reducedMotion, label})` met `start`/`stop` |
 | `src/focus/timer.js` | Zandloper: focustimer boven het bakje in de focusmodus, `createTimer(box, {reducedMotion, tx, onDone})` met `start`/`stop` |
 | `src/data/recap.js` | Maandrecap Poster: `monthStats`, `drawPoster`, `loadRecap`/`saveRecap`, zie Maandrecap (de maandwissel zelf zit in `app.js`, `scene.js` en `fx.js`) |
@@ -257,7 +257,7 @@ Gekozen door Victor (28/10/2026): zeven effecten van pro.reactbits.dev (text mor
 - **Vortex** (`drawVortex` in de scène): in het zijaanzicht spiraalt fijn stof (560 korrels, vierkantjes) langs de wand van de trechter naar de kern; het laatste stukje kleurt rood. Hoeveelheid volgt het aantal taken (45 tot 100 %), tempo de urgentie en het gekozen tempo (stil: staat stil). Glijdt mee met `cam.depth`, dus weg in het bovenaanzicht.
 - **Glyph sonar** (`scene.sonar(id)`, vanuit `tapCore`): een ring van tekens loopt van de kern naar buiten langs de trechter (1,7 s); waar hij de taak raakt waarover de kern praat, kaatsen twee dunne ringen terug rond die bol.
 - **Nieuwe hemel** (`scene.newSky()`, vóór `setSky`): dezelfde ring van tekens als de glyph sonar, maar sneller (`SKY_WAVE_SPEED` 330) en tot buiten beeld; de oude sterren verdwijnen pas als de ring langskomt, de nieuwe hemel begint erachter. Eerder een mozaïekgolf van tegeltjes: weggehaald, twee verschillende golven uit de kern was te veel (Victor, 28/10/2026).
-- **Particle text** (`particleTitle`, titel in de Uitleg, 34 px, gsm 28 px): de letters bestaan uit puntjes in een zeshoekig raster; bij het openen draaien ze binnen (op tijd, 1,1 s), de aanwijzer duwt ze opzij en kleurt ze even rood. De echte tekst blijft in de `h2` (doorzichtig) voor schermlezers.
+- **Particle text** (titel in de Uitleg uit puntjes in een zeshoekig raster): op vraag van Victor weggehaald (02/11/2026: "het effect mag weg"), de Uitleg toont nu het merk met woordmerk (zie Uitleg). `particleTitle` en de bijhorende CSS zijn verwijderd.
 - Text morph (momentlabel in het venster "nieuwe taak") is op vraag van Victor weer weggehaald (28/10/2026).
 - **Typographic wall** (`createWall`, lege lijst): als alles afgevinkt is en het archief iets bevat, een muur van recent afgevinkte titels in kapitaaltjes (dekking 0,06) met "Alles afgevinkt." in het midden; rond de aanwijzer (of een zacht rondzwervend licht) worden de woorden leesbaar. Loopt alleen als de muur in beeld is.
 - **Verdeling van de woorden** (`wallRows` in `fx.js`, voor beide muren): eerst koos een vast patroon (i × 7 + rij) het woord, waardoor met weinig titels dezelfde taak vlak naast of schuin onder zichzelf stond (Victor: "alsof er maar 1 tot 3 taken voltooid zijn"). Nu een geschud stapeltje (vast zaad, dus stabiel) dat helemaal doorlopen wordt voor een titel terugkomt, en nooit dezelfde titel als de buur links of als een titel die er in de rij erboven recht boven staat; heeft het stapeltje niets passends meer, dan uit alle titels. Getest: vanaf 5 titels geen enkele botsing.
@@ -267,9 +267,9 @@ Gekozen door Victor (28/10/2026): zeven effecten van pro.reactbits.dev (text mor
 ## Effecten: Alle of Minimaal
 
 - Instellingen → **Effecten**: Alle / Minimaal (`priority-orbit.fx.v1` = `min` of `all`, gaat mee naar de demo). Op vraag van Victor (28/10/2026): een rustige, sobere weergave. Bewust niet "zen" genoemd: dat is al een tempo.
-- Minimaal zet uit: de intro (zachte cirkel), de nacht na het afvinken, gloed rond de kometen, raster dat buigt, lichtpuntje bij afvinken, vallende ster, sterrenbeeld, spoor op de baan, vortex, glyph sonar (de kern praat nog wel), golf bij een nieuwe hemel, de opvallende geboorte van een nieuwe ster, muur (knopje verborgen) en muur in de lege lijst, avondtint, bakje water, puntjestitel in de Uitleg (gewone tekst), fonkelende klok en teller.
+- Minimaal zet uit: de intro (zachte cirkel), de nacht na het afvinken, gloed rond de kometen, raster dat buigt, lichtpuntje bij afvinken, vallende ster, sterrenbeeld, spoor op de baan, vortex, glyph sonar (de kern praat nog wel), golf bij een nieuwe hemel, de opvallende geboorte van een nieuwe ster, muur (knopje verborgen) en muur in de lege lijst, avondtint, bakje water, fonkelende klok en teller.
 - Blijft: ringen, kometen, kern met gezicht en hartslag, sterren, het uitfonkelen bij afvinken, geluid (eigen instelling).
-- Code: `scene.setMinimal(on)`, `body.is-minimal` (CSS verbergt `.warmth`, `.fidget`, `.wall-toggle`), `applyFx()` in `app.js`, `introTitle.setEnabled()`.
+- Code: `scene.setMinimal(on)`, `body.is-minimal` (CSS verbergt `.warmth`, `.fidget`, `.wall-toggle`), `applyFx()` in `app.js`.
 
 ## Wiel (`src/scene/wheel.js`)
 
@@ -465,7 +465,7 @@ Op vraag van Victor (01/11/2026: "vernieuw vanaf de eerste van de maand de sterr
 
 ## Uitleg (eerste bezoek)
 
-- Venster "Uitleg" (`#intro`, 680 px breed): het beeldmerk (`.intro-mark`, master, 44 px hoog, sinds 02/11/2026; `flex: none`, anders kromp het in de flexkolom tot 0), naam, één zin over de kern, de vijf momenten in hun kleur, tien korte blokken in twee kolommen, per rij ongeveer even lang (anders gaapte er een gat naast een lang blok): Toevoegen (deadline, herhalen, notitie) | Afvinken (lichtpuntje, nacht, ster), Sterren | Prestaties (punten, rang, `P`), De kern | Verplaatsen (ook dubbelklik op een titel), Kijken (met Muur) | Focus (klok, weer, zandloper, bakje), Rust | Toestellen, en een regel sneltoetsen (verborgen op touchscreens). Bijgewerkt 29/10/2026 op vraag van Victor. Sneltoetsen niet tussen haakjes zetten ("tempo (" brak af op het einde van een regel): "met <kbd>T</kbd>". Knop "Aan de slag" blijft onderaan staan tijdens het scrollen (`.sticky-foot`, gedeeld met Prestaties, met `bottom` en `margin-bottom` gelijk aan de onderste padding van de kaart, zachte overgang erboven). Nieuwe functies hier ook toevoegen.
+- Venster "Uitleg" (`#intro`, 680 px breed): als titel het merk met woordmerk (Victor, 02/11/2026: "zet hier het logo naast het woord en zet het woord ook in de brand style, het effect mag weg"; inline SVG `.intro-lockup` in `h2#intro-title`, `LOCKUP` uit `src/core/mark.js` (master, horizontale lockup), 40 px hoog, gsm 36 px, `aria-label` "Orbit Tasks"; links gelijk met de tekst eronder; vroeger een los beeldmerk `.intro-mark` boven de puntjestitel ORBIT TASKS), één zin over de kern, de vijf momenten in hun kleur, tien korte blokken in twee kolommen, per rij ongeveer even lang (anders gaapte er een gat naast een lang blok): Toevoegen (deadline, herhalen, notitie) | Afvinken (lichtpuntje, nacht, ster), Sterren | Prestaties (punten, rang, `P`), De kern | Verplaatsen (ook dubbelklik op een titel), Kijken (met Muur) | Focus (klok, weer, zandloper, bakje), Rust | Toestellen, en een regel sneltoetsen (verborgen op touchscreens). Bijgewerkt 29/10/2026 op vraag van Victor. Sneltoetsen niet tussen haakjes zetten ("tempo (" brak af op het einde van een regel): "met <kbd>T</kbd>". Knop "Aan de slag" blijft onderaan staan tijdens het scrollen (`.sticky-foot`, gedeeld met Prestaties, met `bottom` en `margin-bottom` gelijk aan de onderste padding van de kaart, zachte overgang erboven). Nieuwe functies hier ook toevoegen.
 - Opent vanzelf bij een eerste bezoek: nog geen taken bewaard (`lsEmptyAtStart`), uitleg nooit gezien (`priority-orbit.intro.v1`) en niet geopend via een koppellink. Altijd terug via "Uitleg" rechtsboven of `?`.
 - Start bovenaan zonder focuskader (focus op de kaart zelf, `preventScroll`).
 
@@ -555,3 +555,4 @@ Eén regel per sessie, nieuwste onderaan: datum, tool, wat af is, wat openstaat.
 - 02/11/2026, Claude Code: merk v1 afgewerkt (testlus van vier blinde rondes, kleur, systeem, alle bestanden in `brand/merk/`, merkgids als artifact). Open: Victor beslist of het nieuwe icoon in de app komt.
 - 02/11/2026, Claude Code: merk v1 in de app gezet (favicon, app-iconen, kop, Uitleg, maandrecap), `src/core/mark.js`. Niets openstaand.
 - 02/11/2026, Claude Code: merkgids bewaard in `brand/merkgids/` (ook online via Pages) en aangevuld met hoe het merk in de app staat. Niets openstaand.
+- 02/11/2026, Claude Code: Uitleg toont het merk met woordmerk als titel, puntjestitel weg. Niets openstaand.
